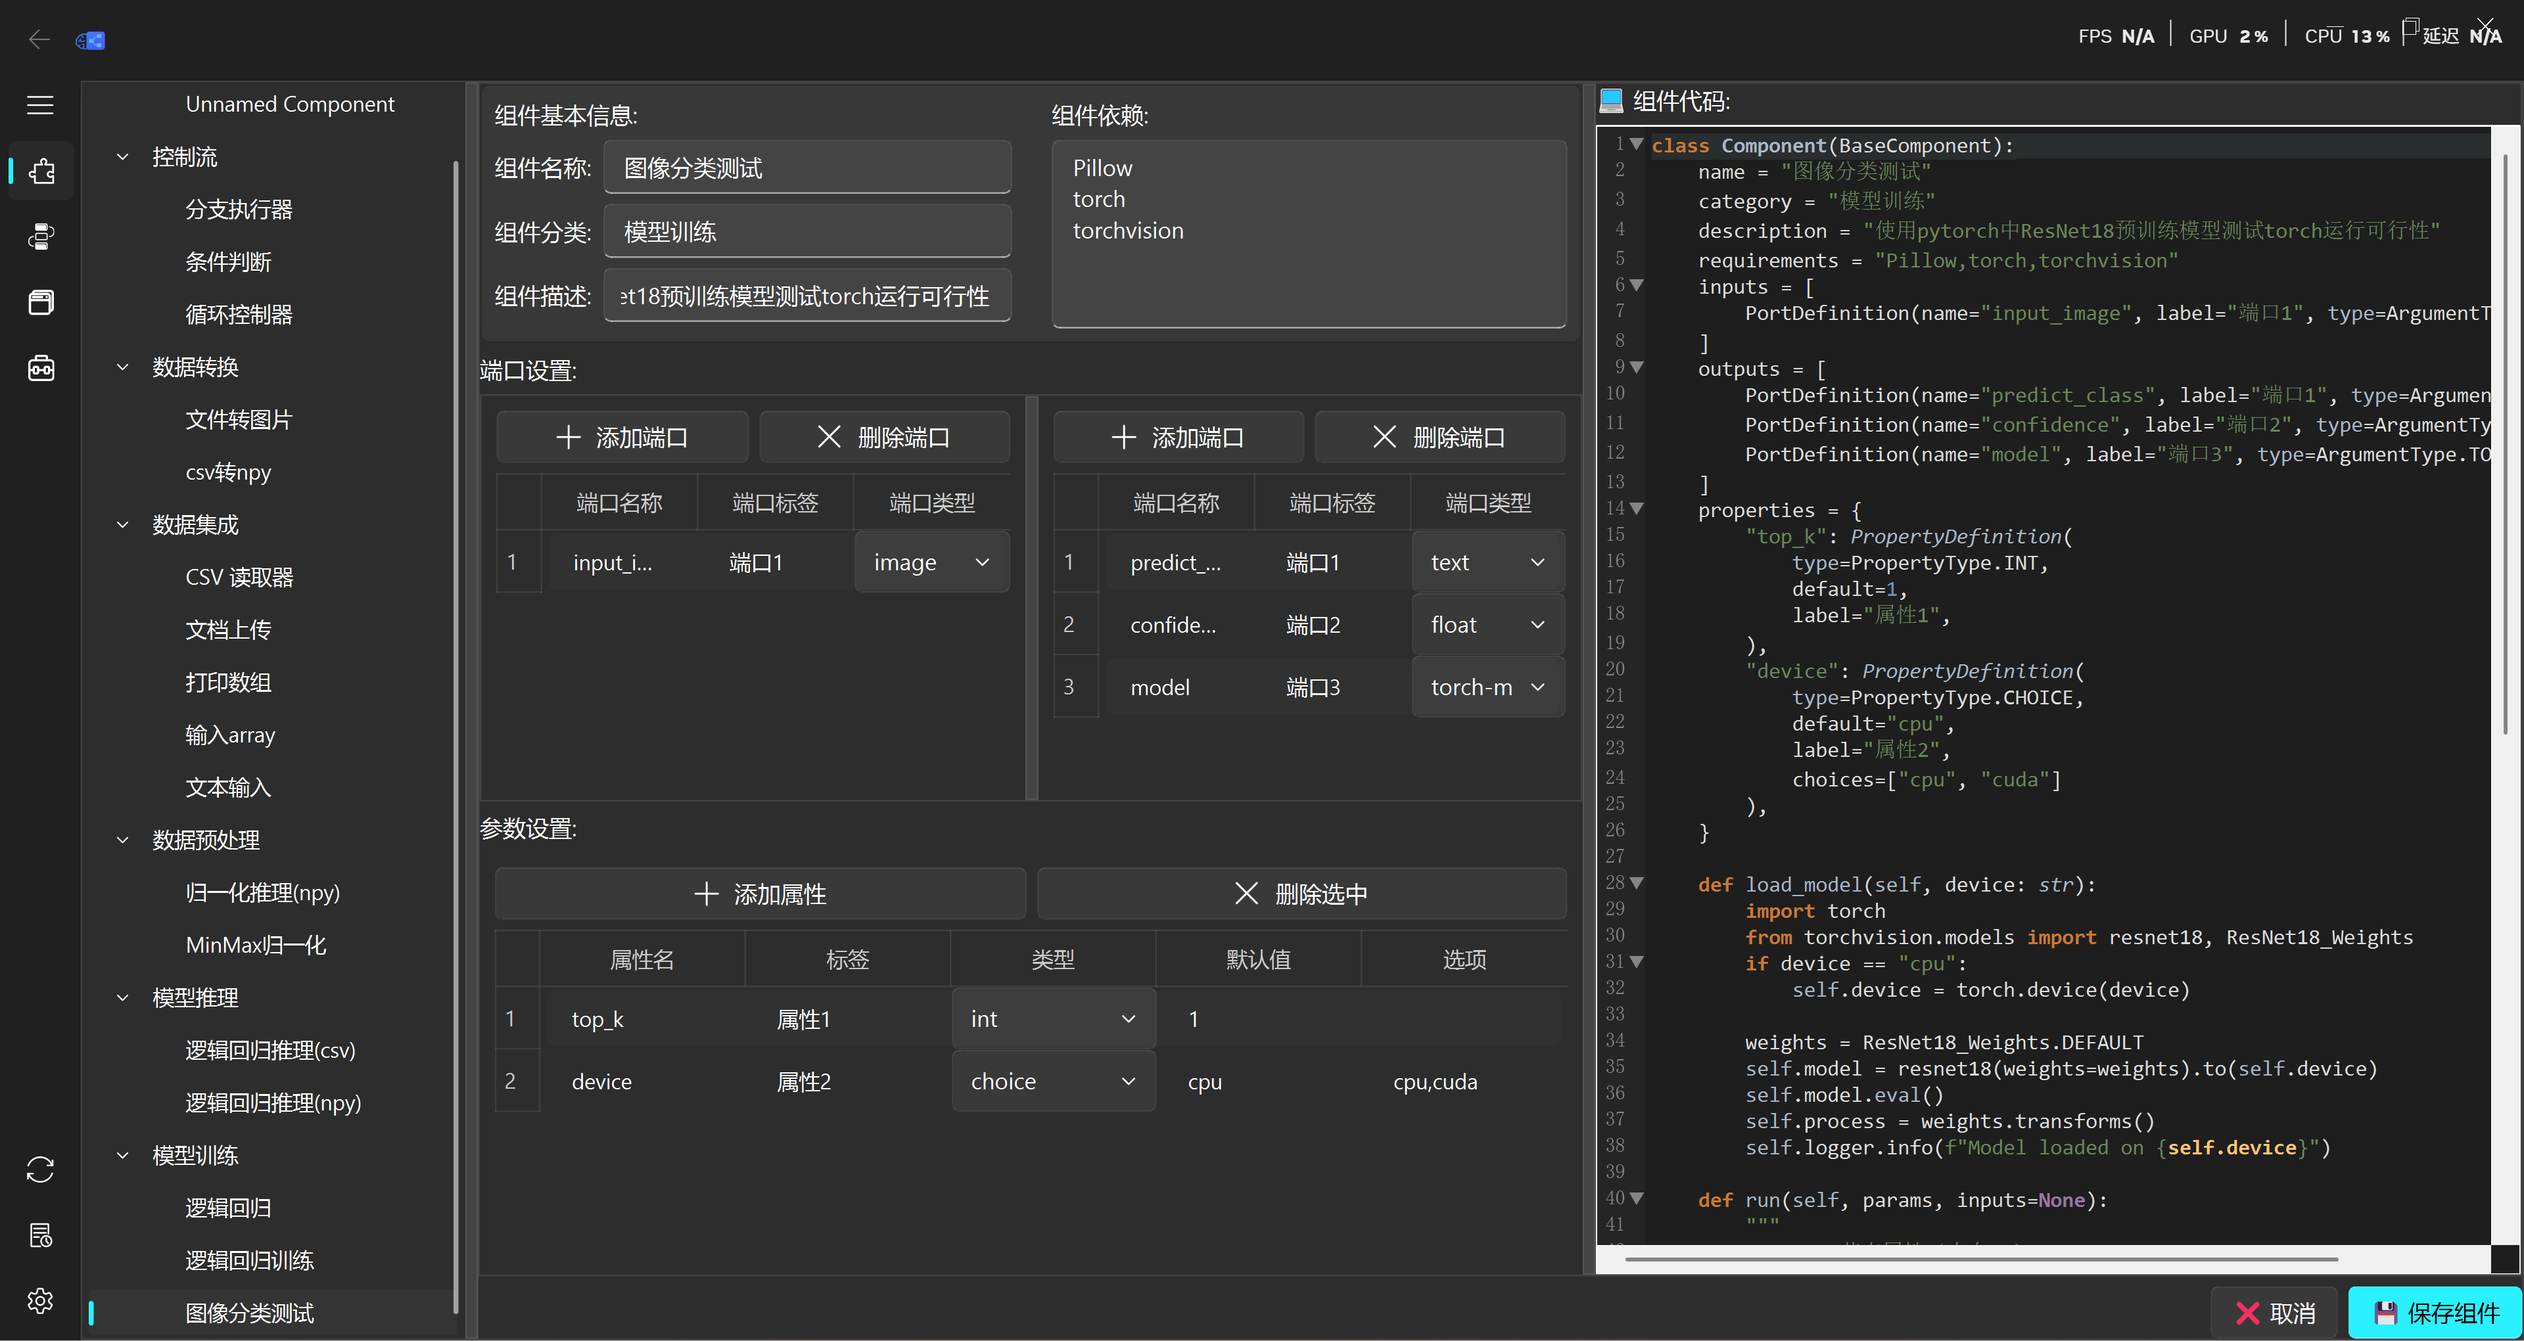
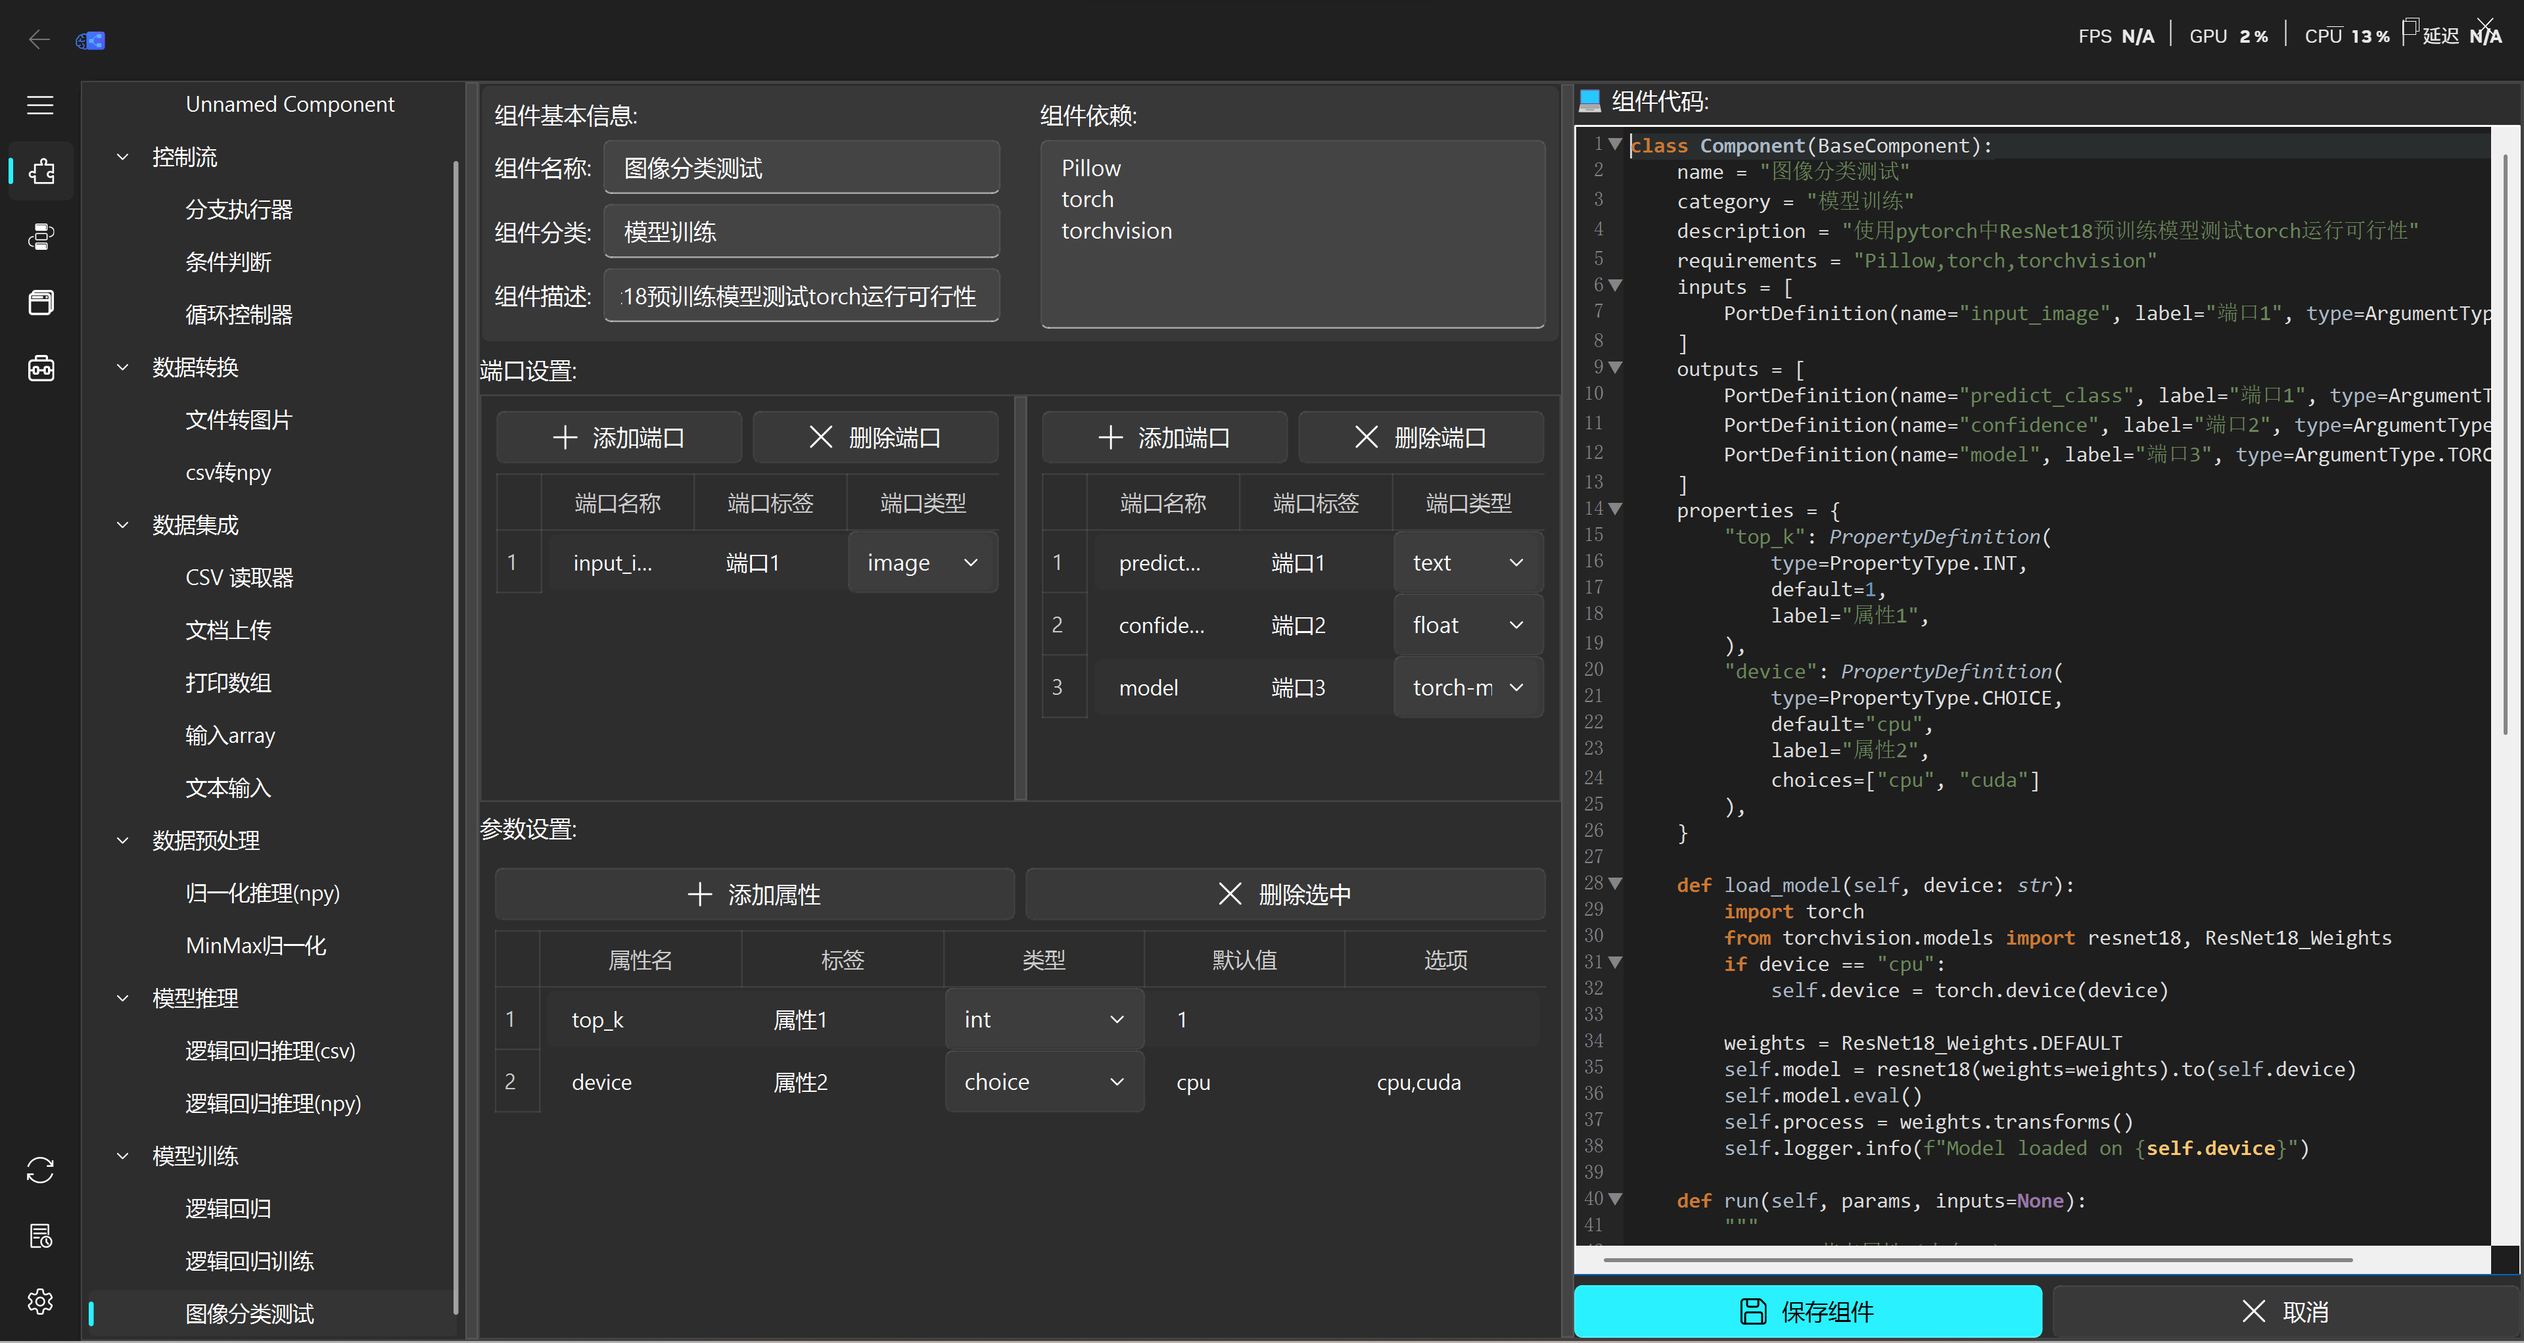
feat(canvas): 添加工作流名称标签并优化环境管理
- 在画布界面左上角添加工作流名称悬浮标签
- 标签位置根据画布宽度居中显示
- 优化环境管理器的样式和分隔条视觉效果
- 改进Miniconda安装逻辑，支持异步下载和静默安装
- 增强环境创建、克隆、删除功能的稳定性和错误处理
-修复组件开发者界面的UI样式问题
- 调整工作流卡片宽度和按钮尺寸
- 优化工作流管理页面的布局间距和组件注册流程

diff --git a/dev/custom_node.py b/dev/custom_node.py
@@ -1,0 +1,222 @@
+# dynamic_node_demo.py
+import sys
+from Qt import QtWidgets, QtCore, QtGui
+from NodeGraphQt import NodeGraph, BaseNode, NodeBaseWidget
+
+
+class DynamicFieldWidget(QtWidgets.QWidget):
+    removed = QtCore.Signal(object)
+
+    def __init__(self, parent=None, field_id=None):
+        super(DynamicFieldWidget, self).__init__(parent)
+        self.field_id = field_id or id(self)
+
+        self.setStyleSheet("""
+            QLineEdit {
+                background: #2d2d2d;
+                color: #ffffff;
+                border: 1px solid #555;
+                padding: 2px;
+                border-radius: 3px;
+            }
+            QComboBox {
+                background: #2d2d2d;
+                color: #ffffff;
+                border: 1px solid #555;
+                padding: 2px;
+                border-radius: 3px;
+            }
+            QComboBox::drop-down { border: none; width: 20px; }
+            QComboBox QAbstractItemView {
+                background: #2d2d2d;
+                color: #ffffff;
+                selection-background-color: #3a3a3a;
+            }
+        """)
+
+        self.line_edit = QtWidgets.QLineEdit()
+        self.line_edit.setPlaceholderText("Field name")
+        self.combo = QtWidgets.QComboBox()
+        self.combo.addItems(['text', 'number', 'boolean'])
+        self.btn_remove = QtWidgets.QPushButton('×')
+        self.btn_remove.setFixedSize(20, 20)
+        self.btn_remove.setStyleSheet("""
+            QPushButton {
+                background: #ff6b6b;
+                color: white;
+                border: none;
+                border-radius: 10px;
+                font-weight: bold;
+                font-size: 12px;
+            }
+            QPushButton:hover { background: #ff5252; }
+        """)
+
+        layout = QtWidgets.QHBoxLayout(self)
+        layout.setContentsMargins(0, 0, 0, 0)
+        layout.setSpacing(6)
+        layout.addWidget(self.line_edit)
+        layout.addWidget(self.combo)
+        layout.addWidget(self.btn_remove)
+
+        self.btn_remove.clicked.connect(lambda: self.removed.emit(self))
+
+    def get_data(self):
+        return {
+            'id': self.field_id,
+            'name': self.line_edit.text(),
+            'type': self.combo.currentText()
+        }
+
+    def set_data(self, data):
+        self.field_id = data.get('id', self.field_id)
+        self.line_edit.setText(data.get('name', ''))
+        idx = self.combo.findText(data.get('type', 'text'), QtCore.Qt.MatchExactly)
+        if idx >= 0:
+            self.combo.setCurrentIndex(idx)
+
+
+class MyCustomWidget(QtWidgets.QWidget):
+    sizeHintChanged = QtCore.Signal()
+
+    def __init__(self, parent=None):
+        super(MyCustomWidget, self).__init__(parent)
+        self.setSizePolicy(QtWidgets.QSizePolicy.Preferred, QtWidgets.QSizePolicy.MinimumExpanding)
+        self.fields = []
+
+        self.btn_add = QtWidgets.QPushButton('➕ Add Field')
+        self.btn_add.setStyleSheet("""
+            QPushButton {
+                background: #4a4a4a;
+                color: #e0e0e0;
+                border: 1px solid #666;
+                padding: 4px 8px;
+                border-radius: 4px;
+                font-size: 12px;
+            }
+            QPushButton:hover { background: #5a5a5a; }
+        """)
+        self.field_layout = QtWidgets.QVBoxLayout()
+        self.field_layout.setSpacing(6)
+        self.field_layout.setContentsMargins(0, 6, 0, 0)
+
+        main_layout = QtWidgets.QVBoxLayout(self)
+        main_layout.setContentsMargins(0, 0, 0, 0)
+        main_layout.setSpacing(6)
+        main_layout.addWidget(self.btn_add)
+        main_layout.addLayout(self.field_layout)
+
+        self.btn_add.clicked.connect(self.add_field)
+
+    def add_field(self, data=None):
+        field_widget = DynamicFieldWidget(field_id=data['id'] if data else None)
+        if  data:  # 修复：判断 data 是否存在
+            field_widget.set_data(data)
+        field_widget.removed.connect(self.remove_field)
+        self.fields.append(field_widget)
+        self.field_layout.addWidget(field_widget)
+        self.sizeHintChanged.emit()
+
+    def remove_field(self, field_widget):
+        if field_widget in self.fields:
+            self.fields.remove(field_widget)
+            self.field_layout.removeWidget(field_widget)
+            field_widget.setParent(None)
+            field_widget.deleteLater()
+            self.sizeHintChanged.emit()
+
+    # ✅ 关键：这两个方法必须存在！
+    def get_all_data(self):
+        return [f.get_data() for f in self.fields]
+
+    def set_all_data(self, data_list):
+        for f in self.fields[:]:
+            self.remove_field(f)
+        for data in data_list or []:
+            self.add_field(data)
+        self.sizeHintChanged.emit()
+
+
+class NodeWidgetWrapper(NodeBaseWidget):
+    def __init__(self, parent=None):
+        super(NodeWidgetWrapper, self).__init__(parent)
+        self.set_name('dynamic_fields')
+        self.set_label('Dynamic Fields')
+        custom_widget = MyCustomWidget()
+        self.set_custom_widget(custom_widget)
+        custom_widget.sizeHintChanged.connect(self._on_size_changed)
+
+    def _on_size_changed(self):
+        if self.node and self.node.view:
+            QtCore.QTimer.singleShot(0, self._do_update)
+
+    def _do_update(self):
+        if self.node and self.node.view:
+            self.node.view.update()
+            self.node.view.draw_node()
+
+    def get_value(self):
+        return self.get_custom_widget().get_all_data()
+
+    def set_value(self, value):
+        self.get_custom_widget().set_all_data(value)
+        self._on_size_changed()
+
+
+class MyNode(BaseNode):
+    __identifier__ = 'com.example'
+    NODE_NAME = 'Dynamic Form Node'
+
+    def __init__(self):
+        super(MyNode, self).__init__()
+        self.add_input('in', color=(180, 80, 180))
+        self.add_output('out', color=(80, 180, 80))
+        widget = NodeWidgetWrapper(self.view)
+        self.add_custom_widget(widget, tab='Custom')
+
+
+if __name__ == '__main__':
+    app = QtWidgets.QApplication(sys.argv)
+
+    app.setStyle("Fusion")
+    dark_palette = QtGui.QPalette()
+    dark_palette.setColor(QtGui.QPalette.Window, QtGui.QColor(53, 53, 53))
+    dark_palette.setColor(QtGui.QPalette.WindowText, QtCore.Qt.white)
+    dark_palette.setColor(QtGui.QPalette.Base, QtGui.QColor(35, 35, 35))
+    dark_palette.setColor(QtGui.QPalette.AlternateBase, QtGui.QColor(53, 53, 53))
+    dark_palette.setColor(QtGui.QPalette.ToolTipBase, QtCore.Qt.white)
+    dark_palette.setColor(QtGui.QPalette.ToolTipText, QtCore.Qt.white)
+    dark_palette.setColor(QtGui.QPalette.Text, QtCore.Qt.white)
+    dark_palette.setColor(QtGui.QPalette.Button, QtGui.QColor(53, 53, 53))
+    dark_palette.setColor(QtGui.QPalette.ButtonText, QtCore.Qt.white)
+    dark_palette.setColor(QtGui.QPalette.BrightText, QtCore.Qt.red)
+    dark_palette.setColor(QtGui.QPalette.Link, QtGui.QColor(42, 130, 218))
+    dark_palette.setColor(QtGui.QPalette.Highlight, QtGui.QColor(42, 130, 218))
+    dark_palette.setColor(QtGui.QPalette.HighlightedText, QtCore.Qt.black)
+    app.setPalette(dark_palette)
+
+    graph = NodeGraph()
+    graph.register_node(MyNode)
+
+    node = graph.create_node('com.example.MyNode')
+
+    viewer = graph.viewer()
+    viewer.resize(1100, 800)
+    viewer.show()
+
+    def print_graph_data():
+        data = graph.serialize_session()
+        print("\n" + "="*50)
+        print("Serialized Graph Data:")
+        print("="*50)
+        import json
+        print(json.dumps(data, indent=2, ensure_ascii=False))
+
+    btn = QtWidgets.QPushButton("🖨 Print Graph Data")
+    btn.setStyleSheet("background: #4a4a4a; color: #e0e0e0; border: 1px solid #666; padding: 4px 8px; border-radius: 4px;")
+    btn.clicked.connect(print_graph_data)
+    btn.setParent(viewer)
+    btn.move(20, 20)
+    btn.show()
+
+    sys.exit(app.exec_())

diff --git a/app/interfaces/component_developer.py b/app/interfaces/component_developer.py
@@ -27,12 +27,41 @@ class ComponentDeveloperWidget(QWidget):
     """组件开发主界面"""
 
     MODULE_TO_PACKAGE_MAP = {
+        # 机器学习 / 计算机视觉
         'sklearn': 'scikit-learn',
-        'PIL': 'Pillow',
-        'yaml': 'PyYAML',
+        'skimage': 'scikit-image',
         'cv2': 'opencv-python',
+
+        # 图像处理
+        'PIL': 'Pillow',  # from PIL import Image
+
+        # Web 解析
         'bs4': 'beautifulsoup4',
-        # 可以根据需要添加更多
+
+        # 配置与序列化
+        'yaml': 'PyYAML',
+        'dateutil': 'python-dateutil',  # from dateutil.parser import ...
+        'jwt': 'PyJWT',  # import jwt
+
+        # 加密
+        'Crypto': 'pycryptodome',  # 注意：不是 pycrypto
+        # 'Cryptodome': 'pycryptodomex',  # 如果用这个变体才需要
+
+        # 串口通信
+        'serial': 'pyserial',
+
+        # Markdown 渲染
+        'markdown': 'Markdown',  # 包名首字母大写
+
+        # Faker 数据生成
+        'faker': 'Faker',  # 包名大写
+
+        # 类型提示（可选）
+        'typing_extensions': 'typing-extensions',  # 模块名下划线，包名中划线
+
+        # TOML（第三方库）
+        'tomli': 'tomli',
+        'tomli_w': 'tomli-w',
     }
 
     def __init__(self, parent=None):
@@ -105,16 +134,6 @@ class ComponentDeveloperWidget(QWidget):
         # 设置初始比例
         main_splitter.setSizes([400, 400])  # 左右各占一半
         layout.addWidget(main_splitter)
-        # 保存按钮
-        save_layout = QHBoxLayout()
-        save_btn = PrimaryPushButton("💾 保存组件")
-        save_btn.clicked.connect(lambda: self._save_component(True))
-        cancel_btn = PushButton("❌ 取消")
-        cancel_btn.clicked.connect(self._cancel_edit)
-        save_layout.addStretch()
-        save_layout.addWidget(cancel_btn)
-        save_layout.addWidget(save_btn)
-        layout.addLayout(save_layout)
         return widget
 
     def _create_left_panel(self):
@@ -163,11 +182,9 @@ class ComponentDeveloperWidget(QWidget):
         port_splitter.addWidget(self.input_port_editor)
         port_splitter.addWidget(self.output_port_editor)
         port_splitter.setSizes([150, 150])  # 初始大小
-        left_layout.addWidget(BodyLabel("端口设置:"))
-        left_layout.addWidget(port_splitter)
+        left_layout.addWidget(port_splitter, stretch=1)
         # 属性编辑器
         self.property_editor = PropertyEditorWidget()
-        left_layout.addWidget(BodyLabel("参数设置:"))
         left_layout.addWidget(self.property_editor, stretch=1)
         return left_widget
 
@@ -180,6 +197,15 @@ class ComponentDeveloperWidget(QWidget):
         self.code_editor = CodeEditorWidget()
         right_layout.addWidget(BodyLabel("💻 组件代码:"))
         right_layout.addWidget(self.code_editor, stretch=1)
+        # 保存按钮
+        save_layout = QHBoxLayout()
+        save_btn = PrimaryPushButton(text="保存组件", icon=FluentIcon.SAVE, parent=self)
+        save_btn.clicked.connect(lambda: self._save_component(True))
+        cancel_btn = PushButton(text="取消", icon=FluentIcon.CLOSE, parent=self)
+        cancel_btn.clicked.connect(self._cancel_edit)
+        save_layout.addWidget(save_btn)
+        save_layout.addWidget(cancel_btn)
+        right_layout.addLayout(save_layout)
         return right_widget
 
     def _connect_signals(self):
@@ -760,7 +786,6 @@ class PortEditorWidget(QWidget):
         super().__init__(parent)
         self.port_type = port_type
         layout = QVBoxLayout(self)
-
         # 表格
         self.table = TableWidget(self)
         self.table.setColumnCount(3)
@@ -769,9 +794,10 @@ class PortEditorWidget(QWidget):
         self.table.itemChanged.connect(lambda item: self.ports_changed.emit())
         # 在表头加按钮
         button_layout = QHBoxLayout()
-        add_btn = PushButton(text=f"添加端口", icon=FluentIcon.ADD)
+        button_layout.addWidget(BodyLabel("输入端口:" if port_type == "input" else "输出端口:"))
+        add_btn = PushButton(text=f"添加", icon=FluentIcon.ADD)
         add_btn.clicked.connect(lambda: self._add_port())
-        remove_btn = PushButton(text="删除端口", icon=FluentIcon.CLOSE)
+        remove_btn = PushButton(text="删除", icon=FluentIcon.CLOSE)
         remove_btn.clicked.connect(self._remove_port)
         button_layout.addWidget(add_btn)
         button_layout.addWidget(remove_btn)
@@ -854,9 +880,10 @@ class PropertyEditorWidget(QWidget):
         self.table.itemChanged.connect(lambda item: self.properties_changed.emit())
 
         button_layout = QHBoxLayout()
-        add_btn = PushButton(text="添加属性", icon=FluentIcon.ADD)
+        button_layout.addWidget(BodyLabel("参数设置:"))
+        add_btn = PushButton(text="添加", icon=FluentIcon.ADD)
         add_btn.clicked.connect(lambda: self._add_property())
-        remove_btn = PushButton(text="删除选中", icon=FluentIcon.CLOSE)
+        remove_btn = PushButton(text="删除", icon=FluentIcon.CLOSE)
         remove_btn.clicked.connect(self._remove_property)
         button_layout.addWidget(add_btn)
         button_layout.addWidget(remove_btn)

diff --git a/app/components/base.py b/app/components/base.py
@@ -97,6 +97,7 @@ class ArgumentType(str, Enum):
 
         return display_data
 
+
 class PropertyDefinition(BaseModel):
     """属性定义"""
     type: PropertyType = PropertyType.TEXT
